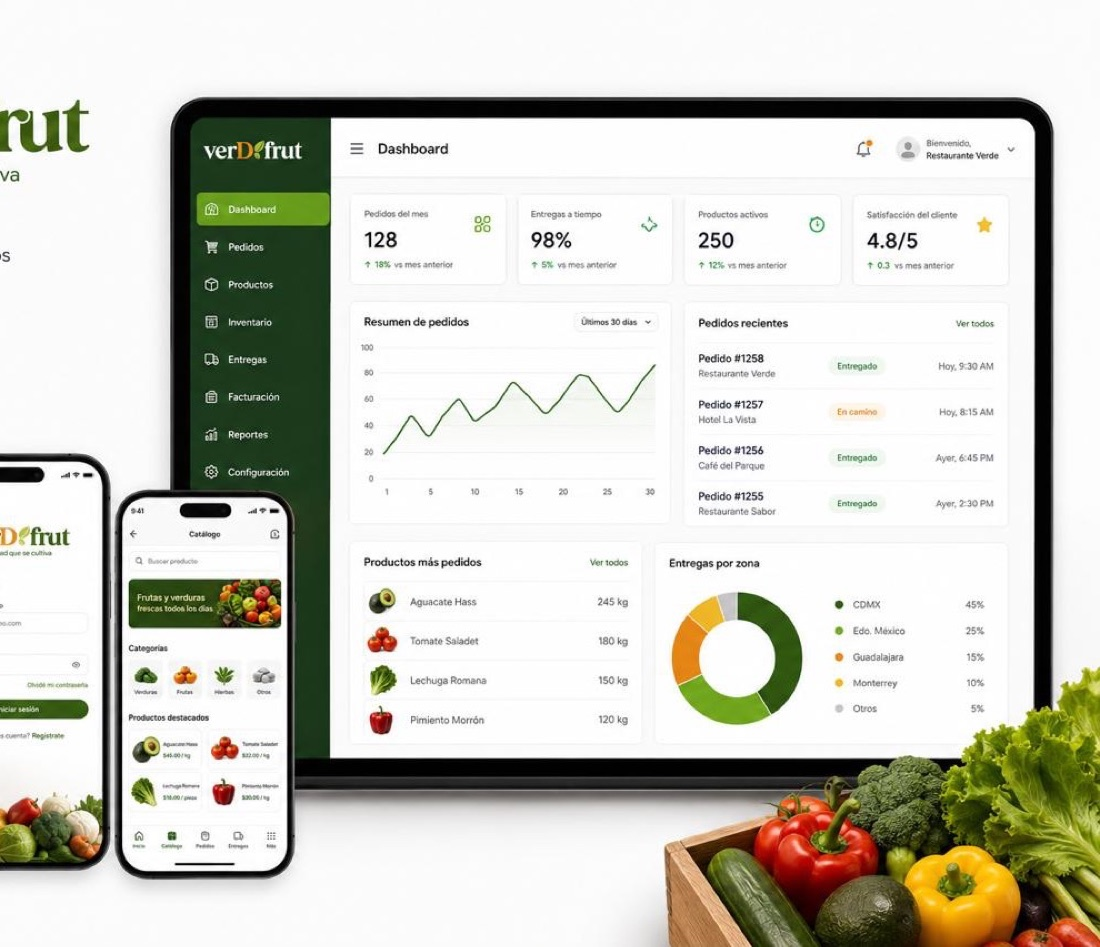
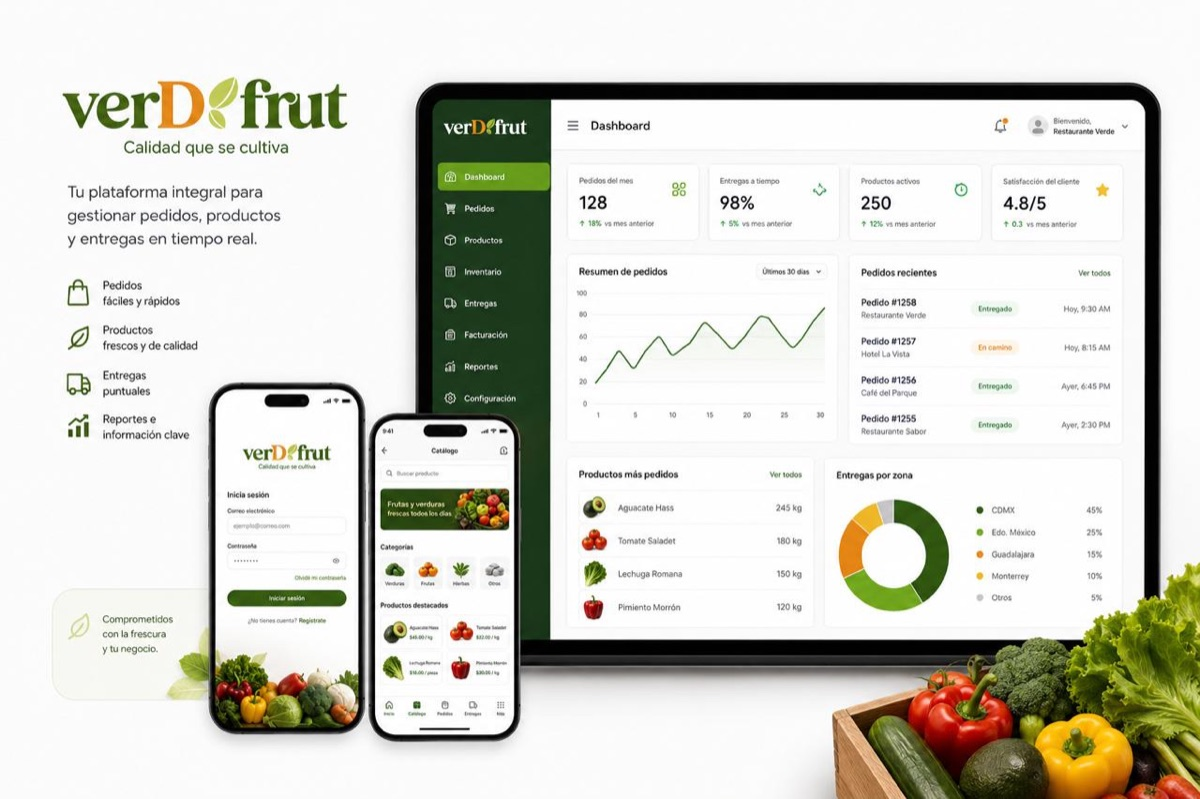
El mockup del dashboard se muestra completo
Se veía cortado por dos motivos que se acumulaban: el recorte previo del
archivo partía el texto de la izquierda a media palabra, y encima
.shot-wide forzaba 16/10 con object-fit:cover, que le quitaba otros
260px de alto al dashboard.

Ahora la imagen se regenera del original sin recortar (1200x799) y
.shot-wide va sin aspect-ratio: manda la proporción de la imagen.

No se recortó el bloque de texto de la izquierda porque no hay corte
vertical limpio: los teléfonos se superponen con ese texto.

Al ser más alto el mockup, la columna de tecnología volvía a desbalancear
la sección (211px). Se compensa con .95fr/1.05fr y más separación en la
lista: quedan 100px, que align-items:center reparte arriba y abajo.

diff --git a/styles.css b/styles.css
@@ -307,7 +307,10 @@ p{ margin:0 0 1.1em; }
    si no quedarían fijadas las dos dimensiones y aspect-ratio no haría nada. */
 .shot{ margin:0; overflow:hidden; border-radius:var(--radius); background:var(--bg-alt); }
 .shot img{ width:100%; height:100%; object-fit:cover; display:block; }
-.shot-wide{ aspect-ratio:16/10; margin-bottom:var(--sp-3); }
+/* Sin aspect-ratio a propósito: el mockup se muestra completo, manda su
+   proporción. Forzarle un encuadre le recortaba el dashboard. */
+.shot-wide{ margin-bottom:var(--sp-3); }
+.shot-wide img{ height:auto; }
 .shot-client{ aspect-ratio:16/10; }
 
 /* Las dos categorías sin foto: panel de marca en vez de recuadro punteado,
@@ -451,8 +454,8 @@ p{ margin:0 0 1.1em; }
    de hueco muerto debajo. En una columna sube a ~520px y las dos terminan casi
    a la par, sin repartir el vacío: se elimina. De paso el panel de tecnología
    gana ancho, que es donde va a ir el mockup real. */
-.why-grid{ display:grid; grid-template-columns:.78fr 1.22fr; gap:var(--sp-6); align-items:center; }
-.why-list{ display:grid; grid-template-columns:1fr; gap:22px; }
+.why-grid{ display:grid; grid-template-columns:.95fr 1.05fr; gap:var(--sp-6); align-items:center; }
+.why-list{ display:grid; grid-template-columns:1fr; gap:28px; }
 /* Con la lista en una columna, el eyebrow centrado quedaba flotando:
    se alinea con ella. Al apilarse vuelve a ir centrado. */
 .why-col .eyebrow{ text-align:left; }

diff --git a/index.html b/index.html
@@ -253,7 +253,7 @@
          y métricas operativas desde cualquier dispositivo.</p>
 
       <figure class="shot shot-wide">
-        <img src="assets/tecnologia-dashboard.jpg" width="1100" height="947" loading="lazy"
+        <img src="assets/tecnologia-dashboard.jpg" width="1200" height="799" loading="lazy"
              alt="Dashboard web de VERDFRUT en una laptop junto a las apps móviles, mostrando pedidos, entregas a tiempo y productos activos">
       </figure>
 

diff --git a/NOTAS.md b/NOTAS.md
@@ -317,6 +317,22 @@ importan al comprador.
 >   "Entregas por zona" aparece **Monterrey**, que no es ninguno de los ocho
 >   hubs del mapa. Cualquiera que compare las dos imágenes lo nota.
 
+## El mockup va sin encuadre forzado
+
+`.shot-wide` **no lleva `aspect-ratio`** a propósito: manda la proporción de la
+imagen. Al principio se le puso 16/10 con `object-fit:cover` y le recortaba
+260 px de alto al dashboard. Si se le vuelve a fijar un encuadre, se vuelve a
+cortar.
+
+Tampoco se recorta el bloque de texto de la izquierda: se intentó y no hay corte
+vertical limpio — los teléfonos se superponen con ese texto, así que cortarlo
+parte una palabra a la mitad. Va la imagen completa.
+
+Como el mockup completo es más alto, la columna de tecnología crecía y volvía a
+desbalancear la sección. Se compensó con `.95fr 1.05fr` y más separación entre
+los ítems de la lista: quedan 589 px contra 689 px, y `align-items:center`
+reparte esos 100 px arriba y abajo.
+
 ## "Clientes ideales": texto visible, no modal
 
 Se evaluó abrir una ventana al hacer clic en cada tarjeta y **se descartó**:
